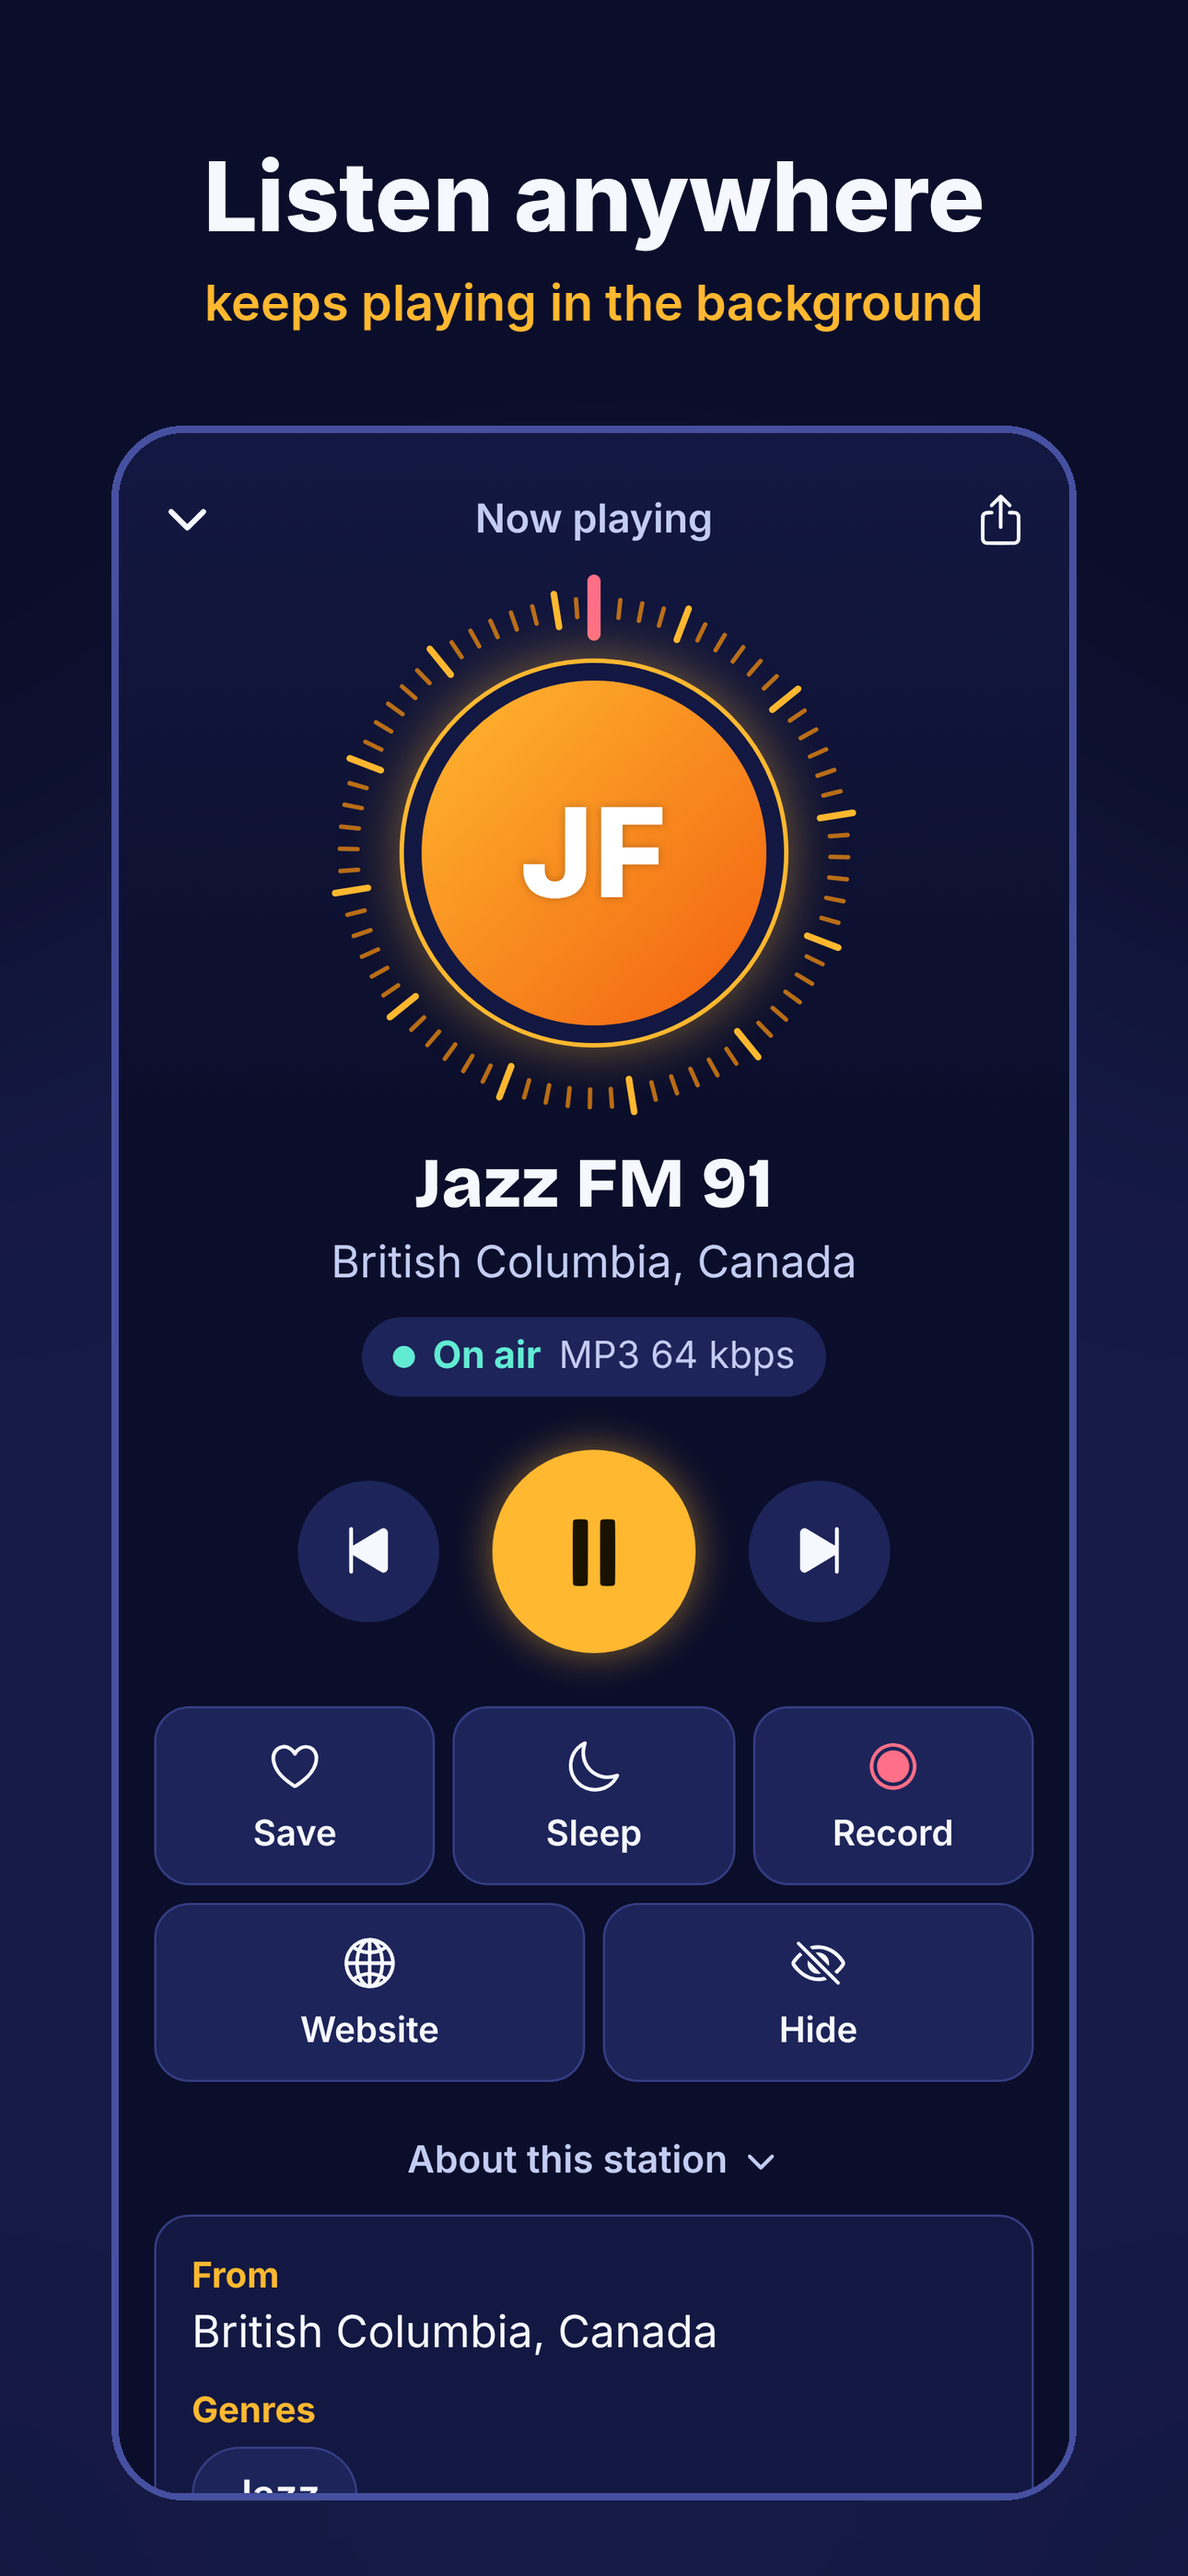
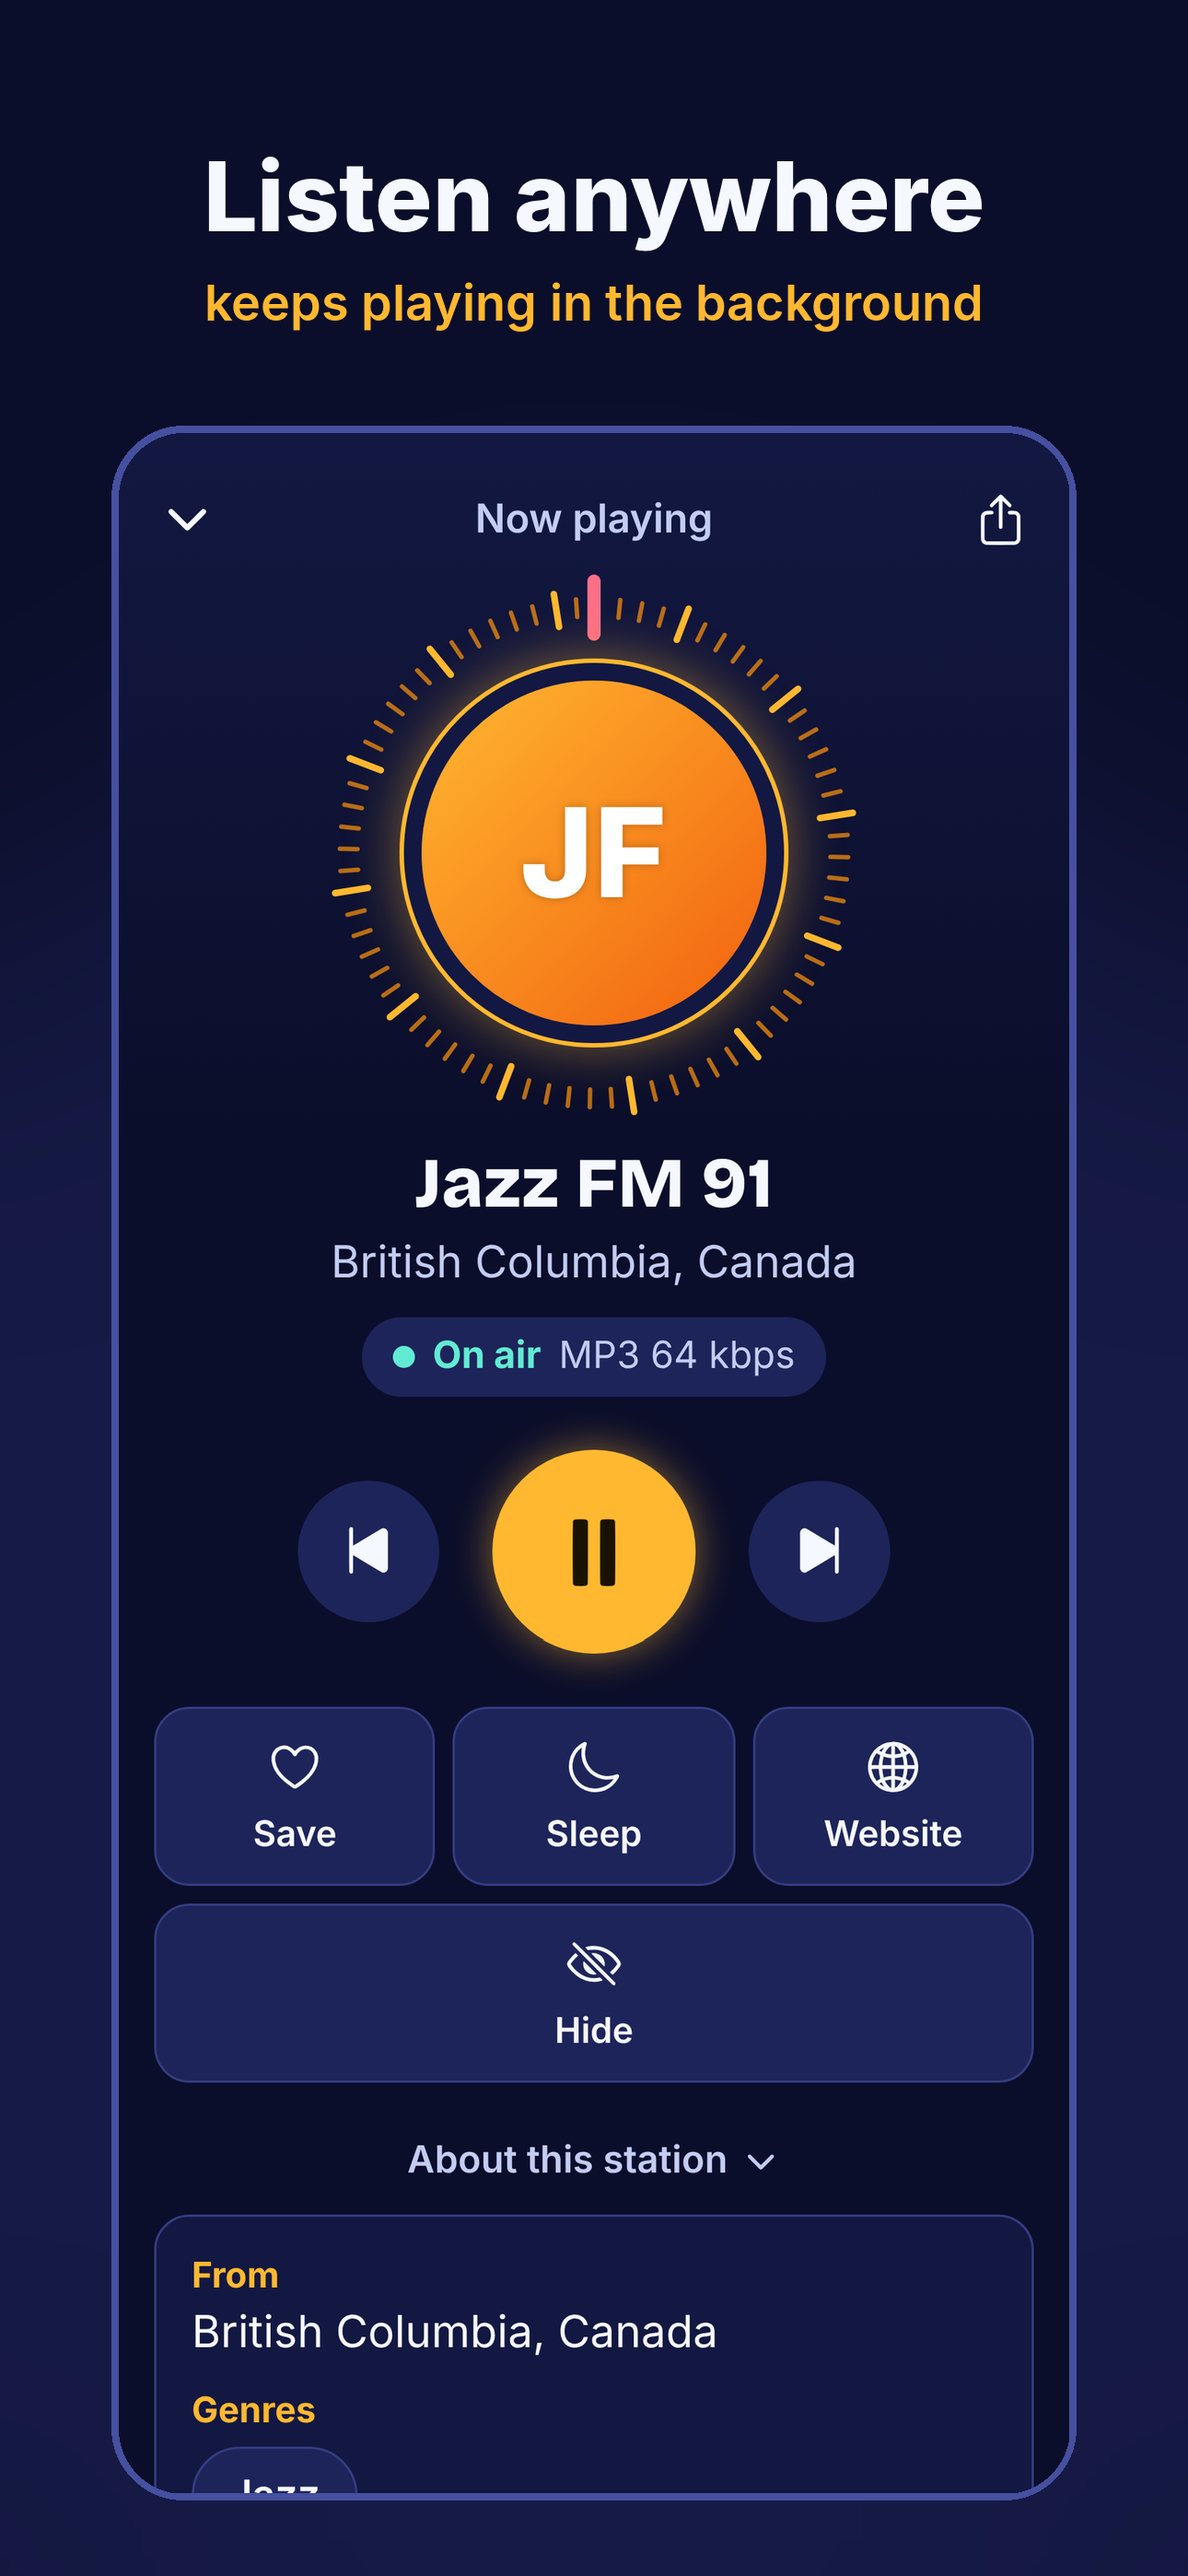
Leave recording out of 1.0: support, privacy and store screenshots
Claude-Session: https://claude.ai/code/session_01WpKAADNPZPYsny5oFaTa6h

diff --git a/site/privacy.html b/site/privacy.html
@@ -21,12 +21,12 @@
 <p>Airwave Atlas is a radio app made by Maplewire Labs. We don't ask for your name, email or location, we don't show ads, and we don't use analytics or tracking. This page explains the little data the app does handle.</p>
 
 <h2>What stays on your iPhone</h2>
-<p>Your favorites, recent stations, stations you add yourself, recordings, alarm settings and app settings are stored only on your iPhone. We never receive them. Deleting the app deletes them.</p>
+<p>Your favorites, recent stations, stations you add yourself, alarm settings and app settings are stored only on your iPhone. We never receive them. Deleting the app deletes them.</p>
 
 <h2>Services the app talks to</h2>
 <p>To work, the app connects to other services. Like any internet connection, these services can see your device's IP address. We don't send them anything that identifies you.</p>
 <ul>
-  <li><strong>Radio stations.</strong> When you play or record a station, your iPhone connects directly to that station's stream.</li>
+  <li><strong>Radio stations.</strong> When you play a station, your iPhone connects directly to that station's stream.</li>
   <li><strong>Station directory.</strong> The station list is downloaded from our catalog on GitHub Pages and from the public Radio Browser directory (radio-browser.info). When you play a station, the app tells Radio Browser that the station was played, so it can count popular stations. This includes only the station, not you.</li>
   <li><strong>Station details.</strong> When you open a station's details, the app may look up the station on Wikipedia and Wikidata, and read the station's own website.</li>
   <li><strong>Translation.</strong> Station names are translated by Apple on your iPhone.</li>

diff --git a/site/support.html b/site/support.html
@@ -28,7 +28,7 @@
 <p>For the radio to start by itself, leave Airwave Atlas in the background (don't swipe it away) and turn the volume up. If the app was closed, a notification with a chime rings instead; tap it to start the radio. Allow notifications for Airwave Atlas in the iPhone Settings app.</p>
 
 <h2>Airwave Atlas Plus</h2>
-<p>Plus adds the radio alarm, recording, the sleep timer, translated station names and unlimited favorites. To get a purchase back on a new iPhone, open Settings in the app and tap Restore purchases. To cancel the yearly plan, open the iPhone Settings app, tap your name, then Subscriptions.</p>
+<p>Plus adds the radio alarm, the sleep timer, translated station names and unlimited favorites. To get a purchase back on a new iPhone, open Settings in the app and tap Restore purchases. To cancel the yearly plan, open the iPhone Settings app, tap your name, then Subscriptions.</p>
 
 <h2>Privacy</h2>
 <p>Read our <a href="privacy.html">privacy policy</a>.</p>
